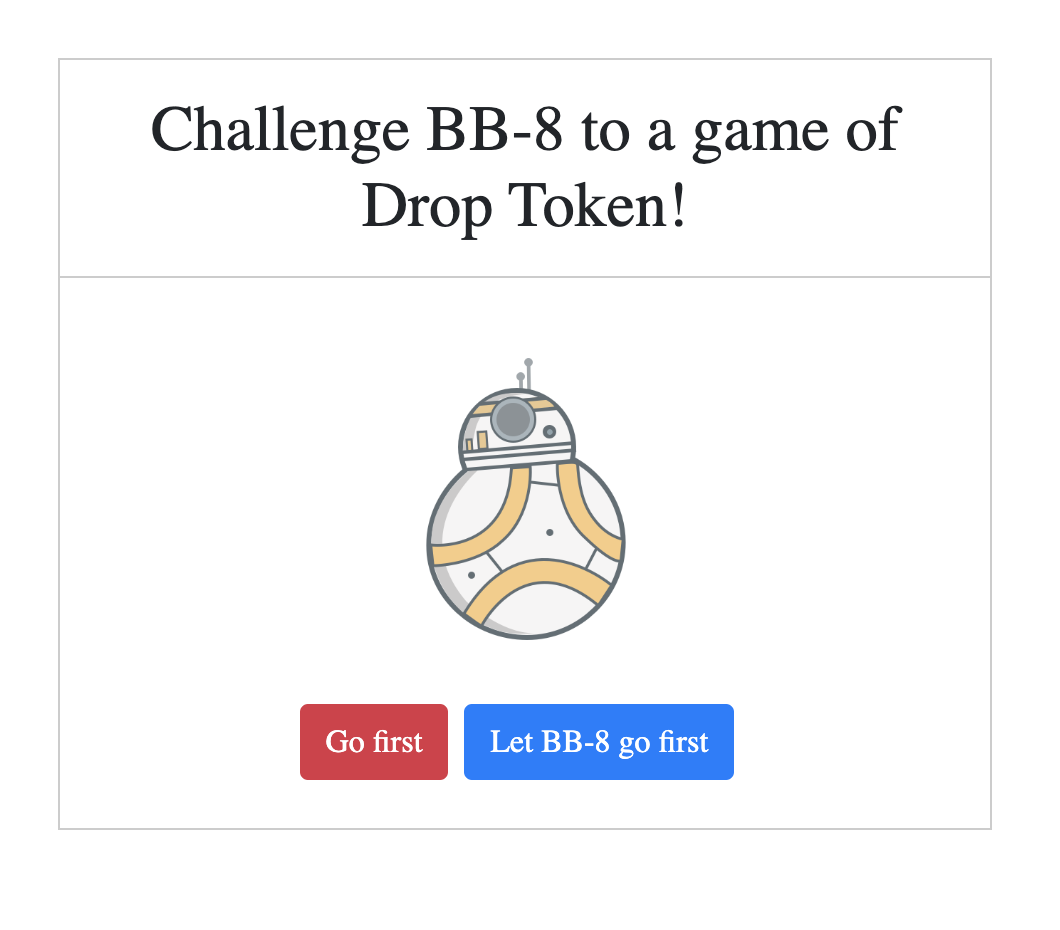
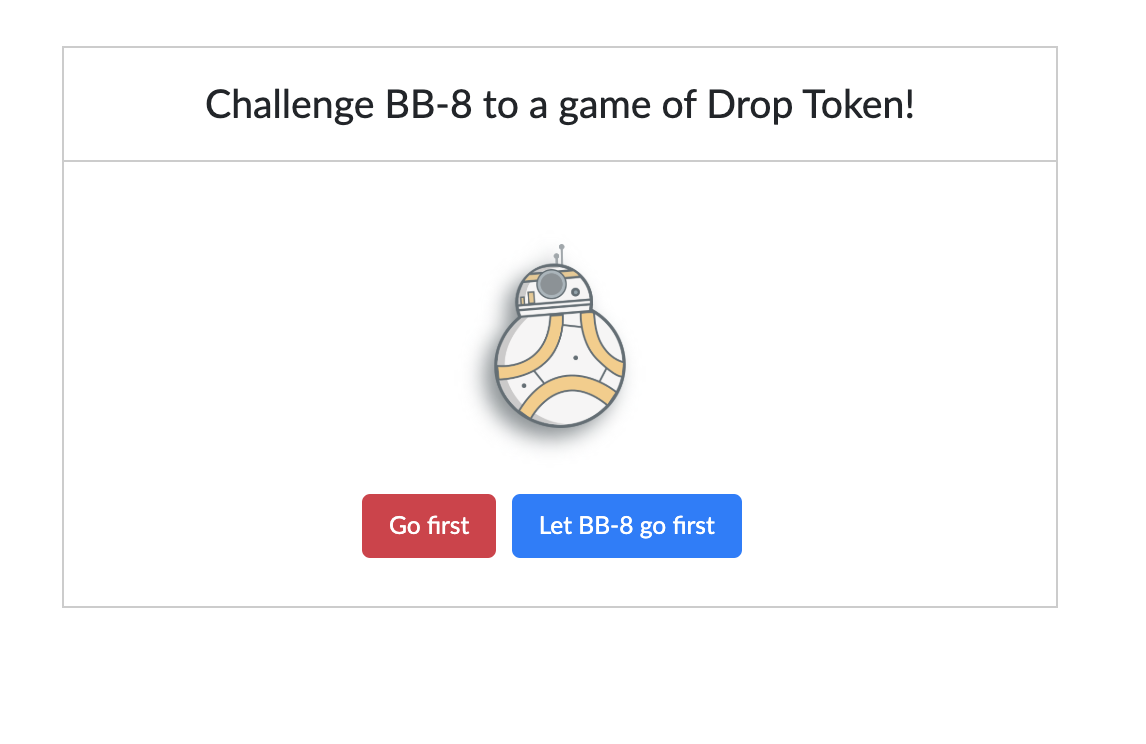
Optimizations

Changed region(s): [[0.2802, 0.3401, 0.716, 0.8656], [0.1245, 0.0927, 0.8406, 0.2782]]

diff --git a/src/components/gameboard/index.js b/src/components/gameboard/index.js
@@ -9,8 +9,7 @@ import Alert from 'react-bootstrap/Alert'
 import Row from './row'
 import bb8 from '../../images/bb8.png'
 
-import { NUM_ROWS, NUM_COLS, WIN_CONDITION } from '../../utils/const'
-
+import { NUM_ROWS, NUM_COLS, PLAYER1, PLAYER2 } from '../../utils/const'
 
 class Board extends Component {
 
@@ -19,9 +18,7 @@ class Board extends Component {
 
     this.state = {
       botFirst: props.botFirst,
-      player1: 1,
-      player2: WIN_CONDITION + 1,
-      bot: props.botFirst ? 1 : WIN_CONDITION + 1,
+      bot: props.botFirst ? PLAYER1 : PLAYER2,
       currentPlayer: null,
       rows: NUM_ROWS,
       cols: NUM_COLS,
@@ -55,7 +52,7 @@ class Board extends Component {
 
     this.setState({
       board,
-      currentPlayer: this.state.player1,
+      currentPlayer: PLAYER1,
       gameOver: false,
       message: ''
     })
@@ -71,7 +68,7 @@ class Board extends Component {
    * @returns {*}
    */
   switchPlayer() {
-    return (this.state.currentPlayer === this.state.player1) ? this.state.player2 : this.state.player1
+    return (this.state.currentPlayer === PLAYER1) ? PLAYER2 : PLAYER1
   }
 
   /**
@@ -98,46 +95,54 @@ class Board extends Component {
   }
 
   /**
+   * Adds new move to board or
+   * @param c
+   */
+   async handleNewMove(c){
+    let addedMove = false
+    let board = this.state.board
+    for (let r = this.state.rows - 1; r >= 0; r--) {
+      if (!board[r][c]) {
+        board[r][c] = this.state.currentPlayer
+        // update corresponding sum arrays
+        this.gameService.addMove(r, c, this.state.currentPlayer)
+        addedMove = true
+        break
+      }
+    }
+    if (!addedMove) {
+      this.setState({
+        board,
+        invalidMove: true
+      })
+    } else {
+      this.setState({
+        board,
+        moves: [...this.state.moves, c],
+        invalidMove: false
+      })
+    }
+  }
+
+  /**
    * Play game
    * @param c
    * @returns {Promise<void>}
    */
   async play(c) {
-    await this.setState({
-      moves: [...this.state.moves, c],
-      invalidMove: false
-    })
 
     if (!this.state.gameOver) {
-      // place token on board
-      let board = this.state.board
-      for (let r = this.state.rows-1; r >= 0; r--) {
-        if (!board[r][c]) {
-          board[r][c] = this.state.currentPlayer
-          await this.gameService.addMove(r, c, this.state.currentPlayer)
-          break
-        }
-      }
+      // Add move to board
+      await this.handleNewMove(c)
+      if (this.state.invalidMove)
+        return
 
       // Check status of board
       let result = this.gameService.checkWinCondition(this.state.moves.length)
-      if (result === this.state.player1) {
-
-        this.setState({ board, gameOver: true })
-        this.setMessage(this.state.player1)
-
-      } else if (result === this.state.player2) {
-
-        this.setState({ board, gameOver: true })
-        this.setMessage(this.state.player2)
-
-      } else if (result === 0) {
-
-        this.setState({ board, gameOver: true })
-        this.setMessage()
-
+      if (result != null){
+        this.setState({ gameOver: true })
+        this.setMessage(result)
       } else {
-
         // get computer move
         if (this.state.currentPlayer !== this.state.bot){
             let move = await this.botMove()
@@ -148,10 +153,10 @@ class Board extends Component {
                 invalidMove: true
               })
             } else {
-              await this.setState({
-                board,
+              this.setState({
                 currentPlayer: this.switchPlayer()
               })
+              // make it seem like BB-8 is taking some time to think
               await this.sleep(500)
               await this.play(move)
             }
@@ -160,7 +165,7 @@ class Board extends Component {
       }
 
       if (this.state.currentPlayer === this.state.bot) {
-        this.setState({board, currentPlayer: this.switchPlayer()})
+        this.setState({currentPlayer: this.switchPlayer()})
       }
 
     }
@@ -198,7 +203,7 @@ class Board extends Component {
 
           <table>
             <tbody>
-                {this.state.board.map((row, i) => (<Row key={i} row={row} play={this.play} player1={this.state.player1} player2={this.state.player2} />))}
+                {this.state.board.map((row, i) => (<Row key={i} row={row} play={this.play}  />))}
             </tbody>
           </table>
         </div>

diff --git a/src/services/gameService.js b/src/services/gameService.js
@@ -40,7 +40,7 @@ class MoveService {
           throw new Error(error)
         }
 
-        //new move will be last element in response array
+        //new move will be the last element in response array
         return data[data.length - 1]
       } catch(e) {
         console.log(e)
@@ -55,16 +55,16 @@ class MoveService {
    * @param player
    * @returns {Promise<void>}
    */
-    async addMove(r, c, player){
+    addMove(r, c, player){
       this.colSum[c] += player
       this.rowSum[r] += player
 
-      // diagonal from bottom left to top right: [0,3], [1,2], [2,1], [3,0]
+      // diagonal from bottom left to top right: e.g [0,3], [1,2], [2,1], [3,0]
       if (r + c === NUM_COLS-1) {
         this.diagLeftSum += player
       }
 
-      //diagonal from bottom right to top left: [0,0], [1,1], [2,2], [3,3]
+      //diagonal from bottom right to top left: e.g [0,0], [1,1], [2,2], [3,3]
       if (r === c) {
         this.diagRightSum += player
       }

diff --git a/src/components/gamesetup/index.js b/src/components/gamesetup/index.js
@@ -11,15 +11,14 @@ class GameSetup extends Component {
     super(props)
 
     this.state = {
-      roll: false
+      animate: false
     }
 
     this.bb8 = this.bb8.bind(this)
-
   }
 
   bb8(){
-    this.setState({roll : true})
+    this.setState({animate : true})
     setTimeout(() => {
       this.props.updateState(true, true)
     }, 1000)
@@ -31,7 +30,7 @@ class GameSetup extends Component {
       <div id="intro">
         <h2>Challenge BB-8 to a game of Drop Token!</h2>
         <div className="content">
-          <img src={bb8} alt="BB-8" className={this.state.roll ? 'bb8-lg slide-right' : 'bb8-lg'} />
+          <img src={bb8} alt="BB-8" className={this.state.animate ? 'bb8-lg slide-right' : 'bb8-lg'} />
           <ButtonToolbar>
             <Button variant="danger" onClick={() => this.props.updateState(false, true)}>Go first</Button>
             <Button variant="primary" onClick={this.bb8}>Let BB-8 go first</Button>

diff --git a/src/css/board.css b/src/css/board.css
@@ -10,6 +10,7 @@ table {
     left: 1rem;
     filter: drop-shadow(2px 2px 2px #8B9295)
 }
+
 .cell {
     height: 4em;
     width: 4em;
@@ -21,35 +22,29 @@ table {
     cursor: pointer;
 }
 
-.token{
+.token, .gray, .red, .blue {
     height: 3em;
     width: 3em;
     border-radius: 4em;
-
+    box-shadow: inset -3px -3px 7px #ffffffb0, inset 3px 3px 5px rgba(94, 104, 121, 0.692);
 }
-
 
 .gray {
     background-color: #D8D8D8;
-    box-shadow: inset -3px -3px 7px #ffffffb0, inset 3px 3px 5px rgba(94, 104, 121, 0.692);
-
 }
 
 .red, .blue{
     animation-name: fall-animation;
     animation-duration: 400ms;
-    box-shadow: inset -3px -3px 7px #ffffffb0, inset 3px 3px 5px rgba(94, 104, 121, 0.692);
 }
 
 .red {
     background-color: #BE2828;
-
 }
 
 .blue {
     background-color: #5C8EDC;
 }
-
 
 .btn-toolbar {
     padding: 1rem 0 0 0;

diff --git a/src/components/gameboard/cell.js b/src/components/gameboard/cell.js
@@ -1,19 +1,20 @@
 import React, {Component} from "react"
+import { PLAYER1, PLAYER2 } from '../../utils/const'
 
 class Cell extends Component {
 
   render(){
     let color = 'gray'
-    if (this.props.value === this.props.player1) {
+    if (this.props.value === PLAYER1) {
       color = 'red'
-    } else if (this.props.value === this.props.player2) {
+    } else if (this.props.value === PLAYER2) {
       color = 'blue'
     }
 
     return (
       <td>
         <div className="cell" onClick={() => {this.props.play(this.props.columnIndex)}}>
-          <div className={`token ${color}`}></div>
+          <div className="token"><div className={`${color}`}></div> </div>
         </div>
       </td>
     )

diff --git a/src/css/intro.css b/src/css/intro.css
@@ -40,8 +40,8 @@ h2 {
 }
 
 .slide-right {
-    -webkit-animation: slide-right 1s cubic-bezier(0.215, 0.610, 0.355, 1.000) forwards;
-    animation: slide-right 1s cubic-bezier(0.215, 0.610, 0.355, 1.000) forwards;
+    -webkit-animation: slide-right 2s cubic-bezier(0.215, 0.610, 0.355, 1.000) forwards;
+    animation: slide-right 2s cubic-bezier(0.215, 0.610, 0.355, 1.000) forwards;
 }
 
 /* ----------------------------------------------

diff --git a/src/components/gameboard/row.js b/src/components/gameboard/row.js
@@ -3,11 +3,10 @@ import Cell from './cell'
 
 class Row extends Component {
 
-
   render(){
     return (
       <tr>
-        {this.props.row.map((cell, i) => <Cell key={i} value={cell} columnIndex={i} play={this.props.play} player1={this.props.player1} player2={this.props.player2} />)}
+        {this.props.row.map((cell, i) => <Cell key={i} value={cell} columnIndex={i} play={this.props.play} />)}
       </tr>
     )
   }

diff --git a/public/index.html b/public/index.html
@@ -25,7 +25,7 @@
       Learn how to configure a non-root public URL by running `npm run build`.
     -->
     <link href="https://fonts.googleapis.com/css?family=Lato&display=swap" rel="stylesheet">
-    <title>React App</title>
+    <title>Drop Token GG</title>
   </head>
   <body>
     <noscript>You need to enable JavaScript to run this app.</noscript>

diff --git a/src/utils/const.js b/src/utils/const.js
@@ -2,4 +2,7 @@ export const WIN_CONDITION = 4
 export const NUM_ROWS = 4
 export const NUM_COLS = 4
 
+export const PLAYER1 = 1
+export const PLAYER2 = WIN_CONDITION + 1
+
 export const BASE_URL = 'https://w0ayb2ph1k.execute-api.us-west-2.amazonaws.com/production'
